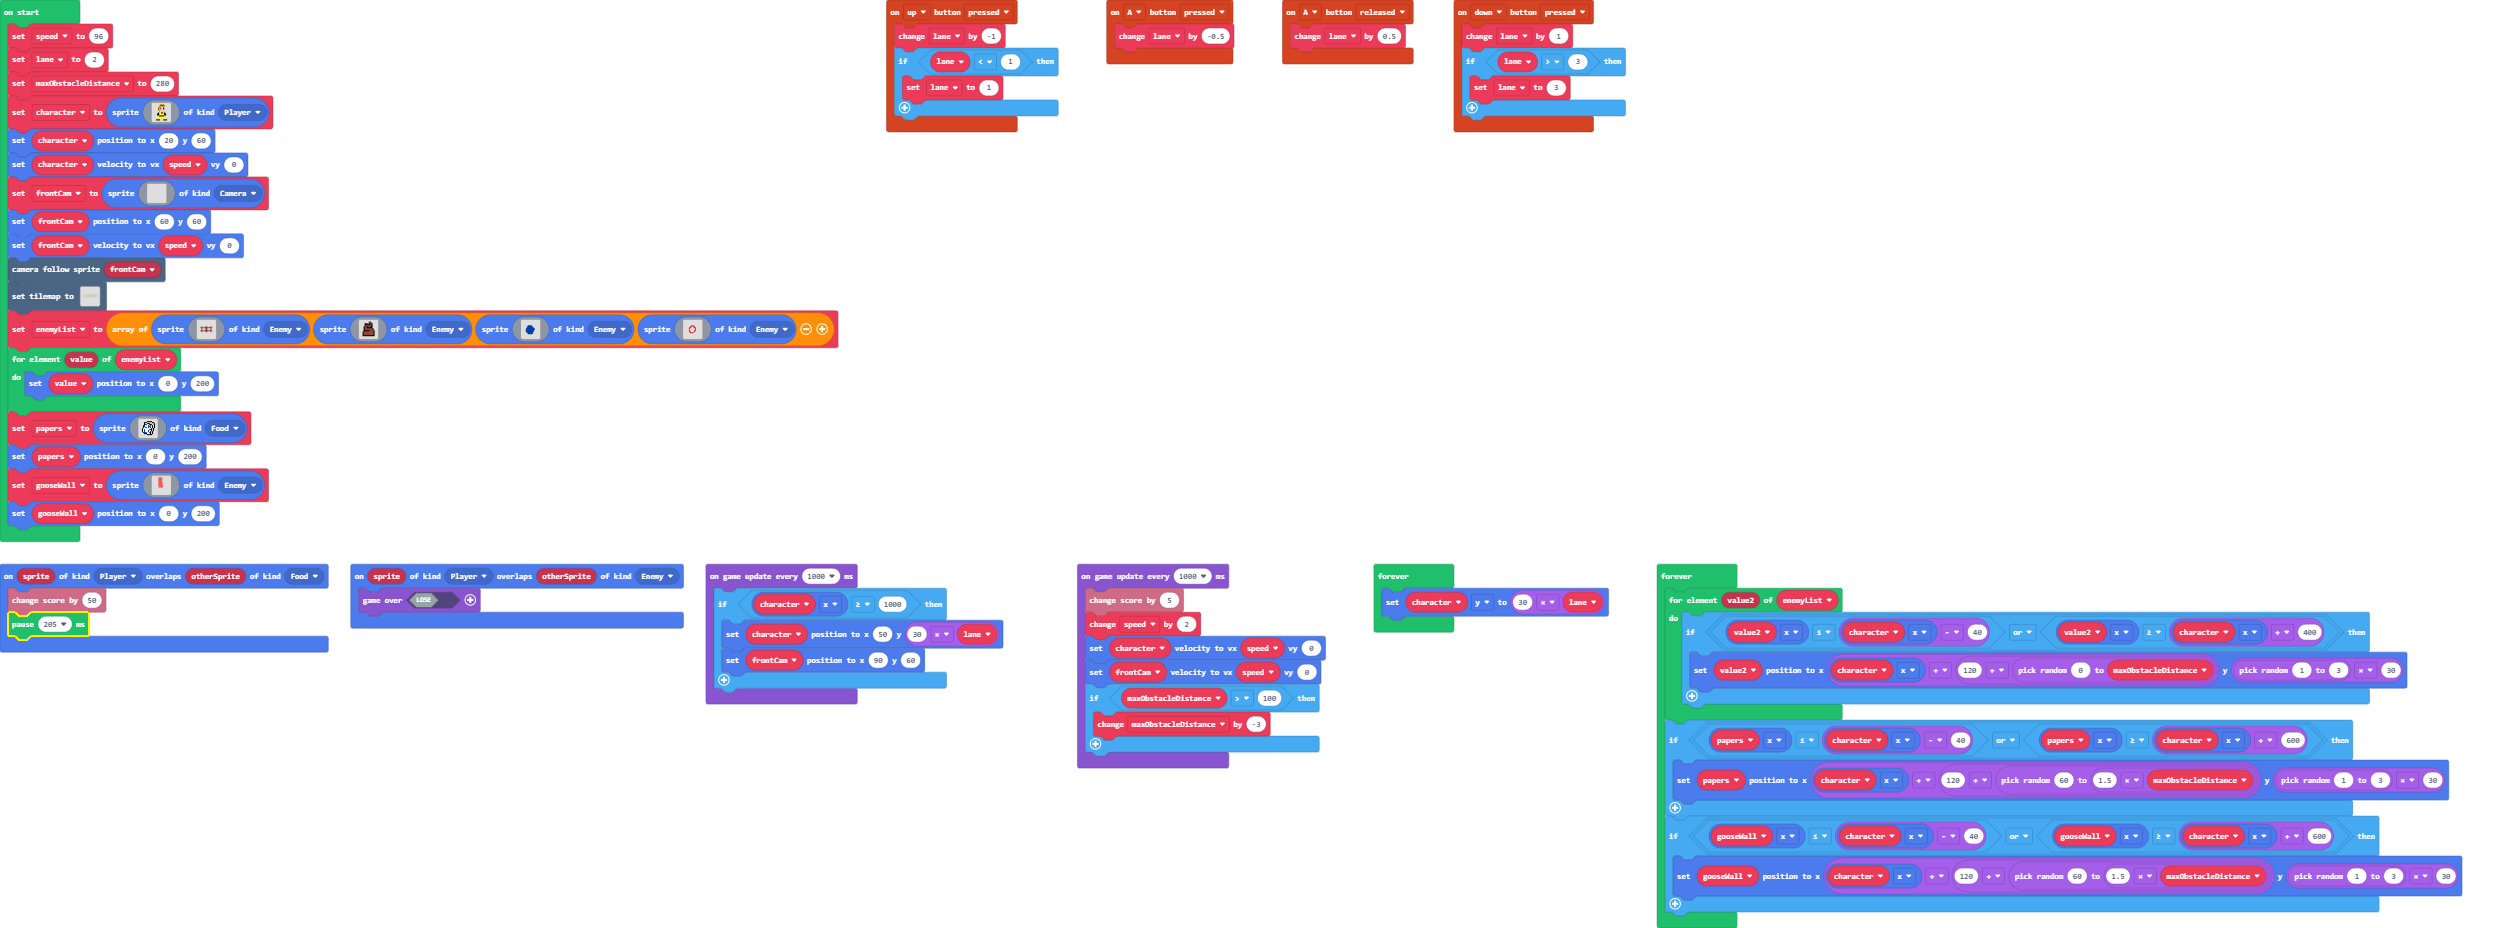
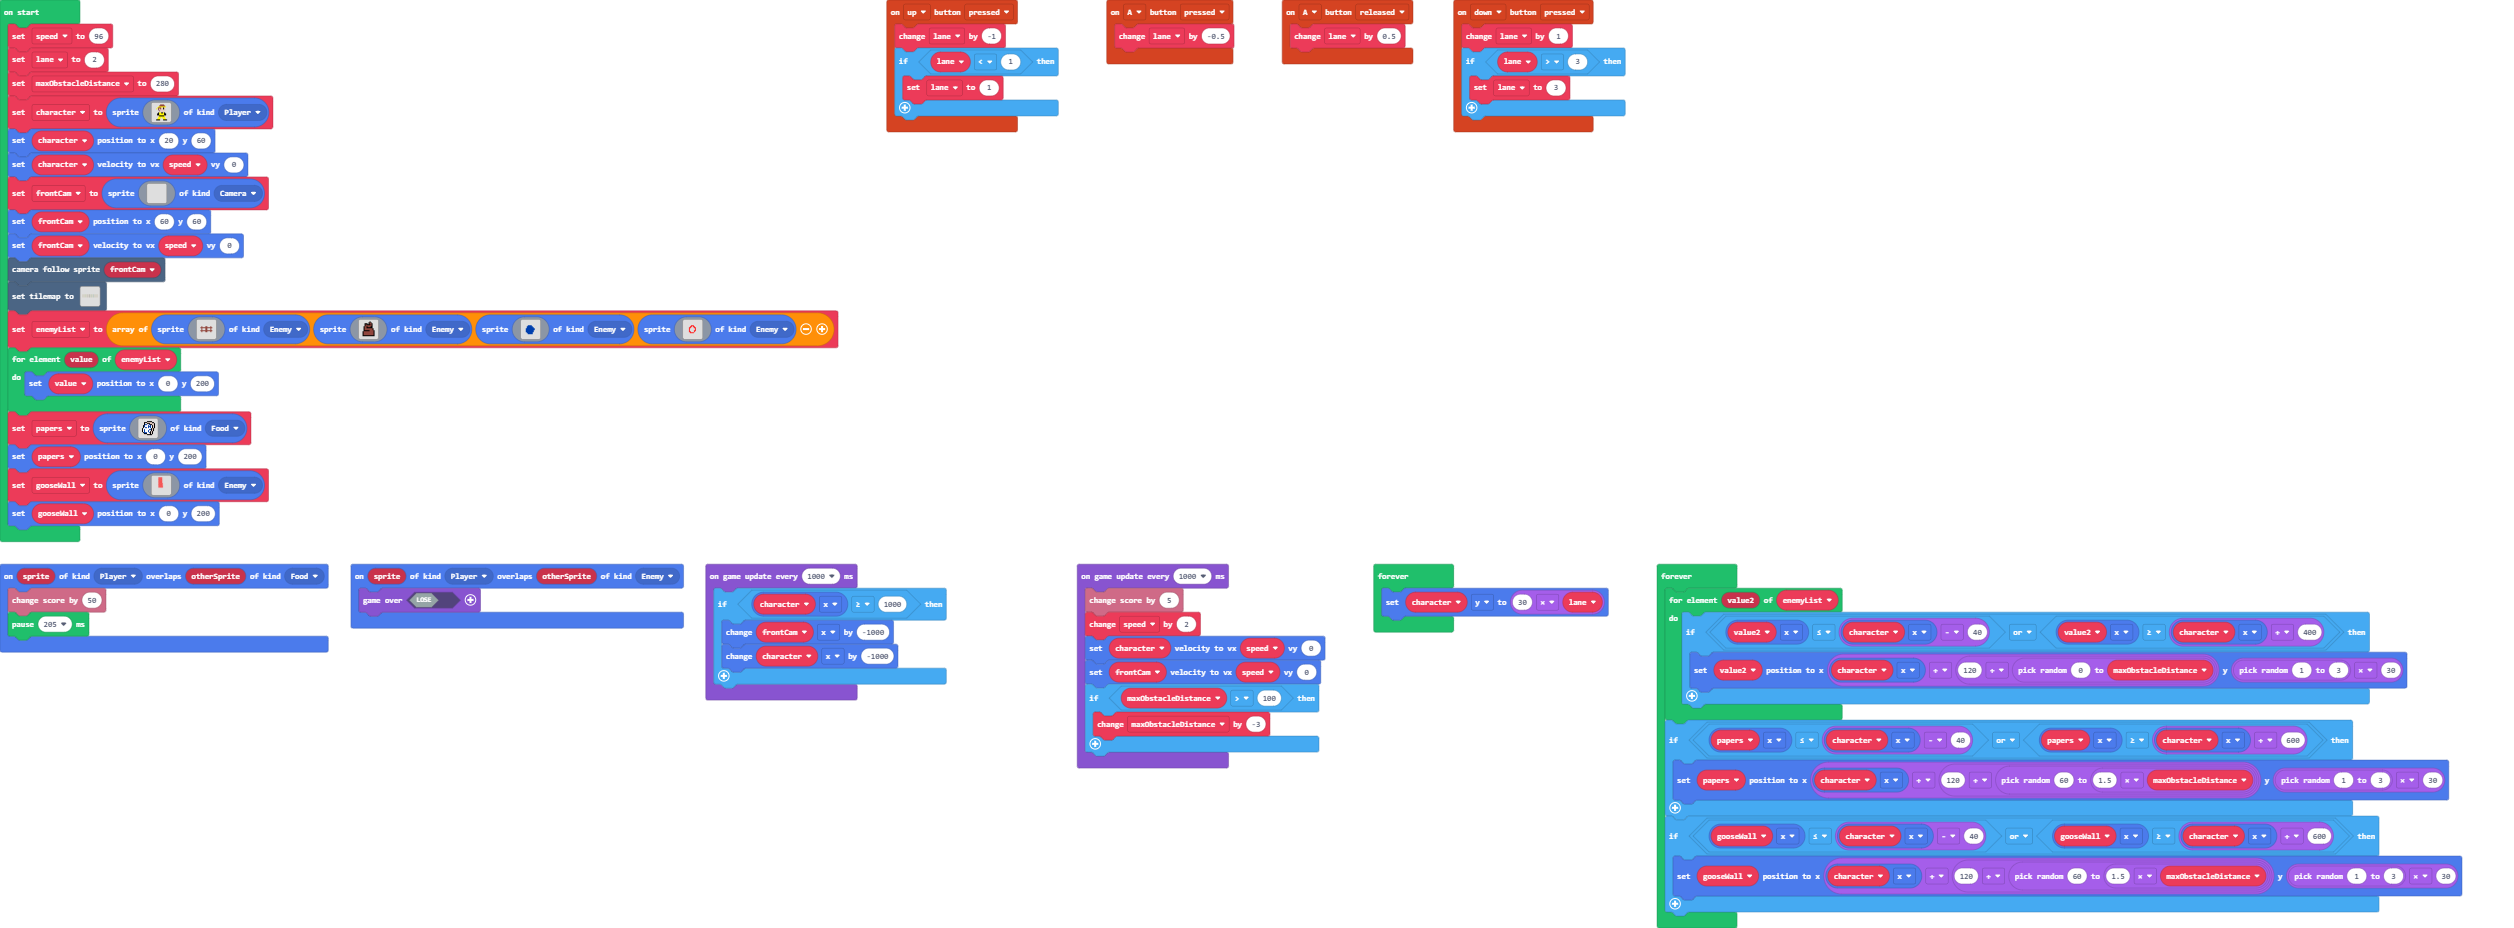
Update main.blocks, main.ts

Changed region(s): [[0.2792, 0.6562, 0.4033, 0.7812], [0.0, 0.6562, 0.031, 0.6875]]

diff --git a/main.ts b/main.ts
@@ -210,8 +210,8 @@ let gooseWall = sprites.create(img`
 gooseWall.setPosition(0, 200)
 game.onUpdateInterval(1000, function () {
     if (character.x >= 1000) {
-        character.setPosition(50, 30 * lane)
-        frontCam.setPosition(90, 60)
+        frontCam.x += -1000
+        character.x += -1000
     }
 })
 game.onUpdateInterval(1000, function () {
